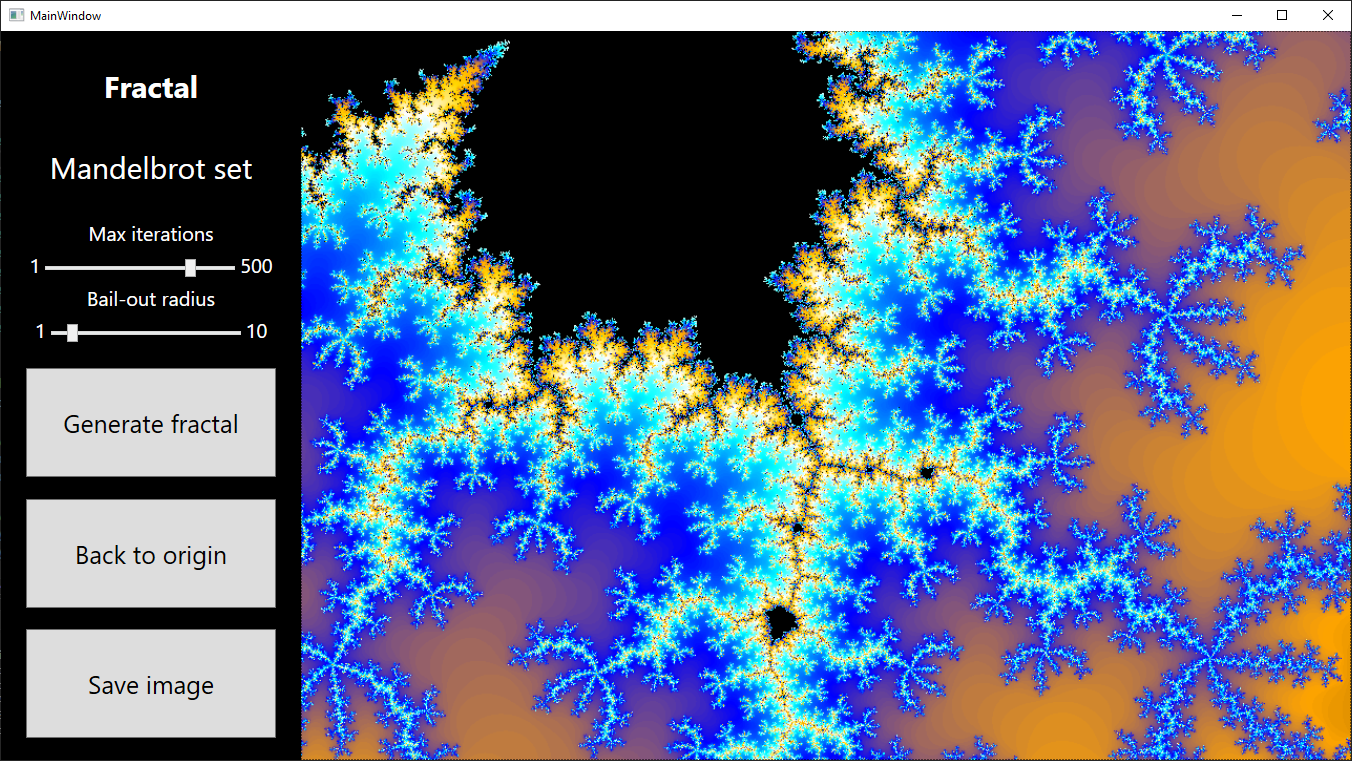
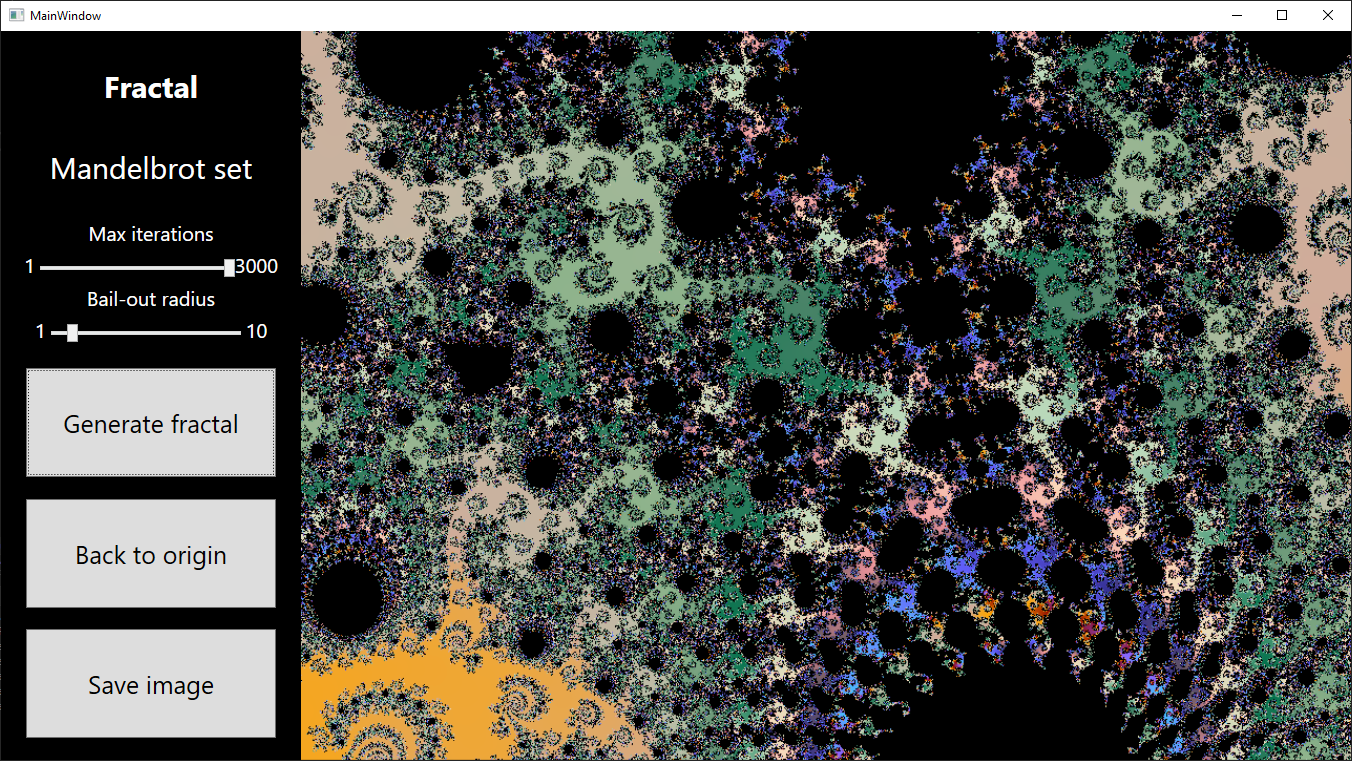
change colors, increase max iterations slider value

diff --git a/MainWindow.xaml b/MainWindow.xaml
@@ -62,8 +62,8 @@
 
                         <StackPanel Grid.Row="4" Orientation="Horizontal" HorizontalAlignment="Center" VerticalAlignment="Center">
                             <TextBlock FontSize="20" VerticalAlignment="Center" Foreground="White" >1</TextBlock>
-                            <Slider x:Name="IterationNumberSlider" Value="100" Minimum="1" Maximum="500" Width="200" HorizontalAlignment="Center" VerticalAlignment="Top" Margin="0,7,0,0"/>
-                            <TextBlock FontSize="20" VerticalAlignment="Center" Foreground="White" >500</TextBlock>
+                            <Slider x:Name="IterationNumberSlider" Value="100" Minimum="1" Maximum="3000" Width="200" HorizontalAlignment="Center" VerticalAlignment="Top" Margin="0,7,0,0"/>
+                            <TextBlock FontSize="20" VerticalAlignment="Center" Foreground="White" >3000</TextBlock>
                         </StackPanel>
 
                         <TextBlock Grid.Row="5" FontSize="20" TextAlignment="Center" Foreground="White" HorizontalAlignment="Center" VerticalAlignment="Center">

diff --git a/MainWindow.xaml.cs b/MainWindow.xaml.cs
@@ -204,35 +204,56 @@ namespace FractalViewer {
 
             var colors = new[]
             {
-                Colors.Black,
+                
+                Colors.DarkRed,
+                Colors.Orange,
 
-                Colors.Orange,
-                Colors.Blue,
-                Colors.Cyan,
-                Colors.Snow,
-                Colors.Gold,
-                Colors.Orange,
-                Colors.Blue,
-                Colors.Cyan,
-                Colors.Snow,
+                Color.FromRgb(0xd2, 0xab, 0x99),
+                Color.FromRgb(0xbd, 0xbe, 0xa9),
+                Color.FromRgb(0x8d, 0xb3, 0x8b),
+                Color.FromRgb(0x56, 0x87, 0x6d),
+                Color.FromRgb(0x04, 0x72, 0x4d),
+                Color.FromRgb(0xb8, 0xd8, 0xba),
+                Color.FromRgb(0xd9, 0xdb, 0xbc),
+                Color.FromRgb(0xfc, 0xdd, 0xbc),
+                Color.FromRgb(0xef, 0x95, 0x9d),
+                Color.FromRgb(0x69, 0x58, 0x5f),
+
+
+                Color.FromRgb(0x34, 0x30, 0x90),
+                Color.FromRgb(0x5f, 0x59, 0xf7),
+                Color.FromRgb(0x65, 0x92, 0xfd),
+                Color.FromRgb(0x44, 0xc2, 0xfd),
+                Color.FromRgb(0x8c, 0x61, 0xff),
+
             };
 
-            for (int i = 0; i < colors.Length - 1; i++) {
-                if (t >= (double)i/(colors.Length - 1) && t <= (double)(i + 1) / (colors.Length - 1)) {
+            double changeFactor = 0.9;
 
-                    double range = (double)(i + 1) / (colors.Length - 1) - (double)(i) / (colors.Length - 1);
-                    double localFactor = (t - (double)(i) / (colors.Length - 1)) / range;
+            int power = 0;
 
-                    byte r = (byte)(colors[i].R + localFactor * (colors[i + 1].R - colors[i].R));
-                    byte g = (byte)(colors[i].G + localFactor * (colors[i + 1].G - colors[i].G));
-                    byte b = (byte)(colors[i].B + localFactor * (colors[i + 1].B - colors[i].B));
+            double currentFactor = changeFactor;
+            double factorReverseVal = 1 - currentFactor;
 
-                    return Color.FromRgb(r, g, b);
-                }
-
+            while (factorReverseVal < t) {
+                currentFactor *= changeFactor;
+                factorReverseVal = 1 - currentFactor;
+                power++;
             }
 
-            return Colors.Black;
+            double prevColorFactor = 1 - currentFactor / changeFactor;
+            double nextColorFactor = 1 - currentFactor;
+
+            double localFactor = (t - prevColorFactor) / (nextColorFactor - prevColorFactor);
+
+            Color c1 = power == 0 ? Colors.Black : colors[power % colors.Length];
+            Color c2 = colors[(power + 1) % colors.Length];
+
+            byte r = (byte)(c1.R + localFactor * (c2.R - c1.R));
+            byte g = (byte)(c1.G + localFactor * (c2.G - c1.G));
+            byte b = (byte)(c1.B + localFactor * (c2.B - c1.B));
+
+            return Color.FromRgb(r, g, b);
         }
         private Color InterpolateColors(Color startColor, Color endColor, double factor) {
             byte r = InterpolateColorComponent(startColor.R, endColor.R, factor);
